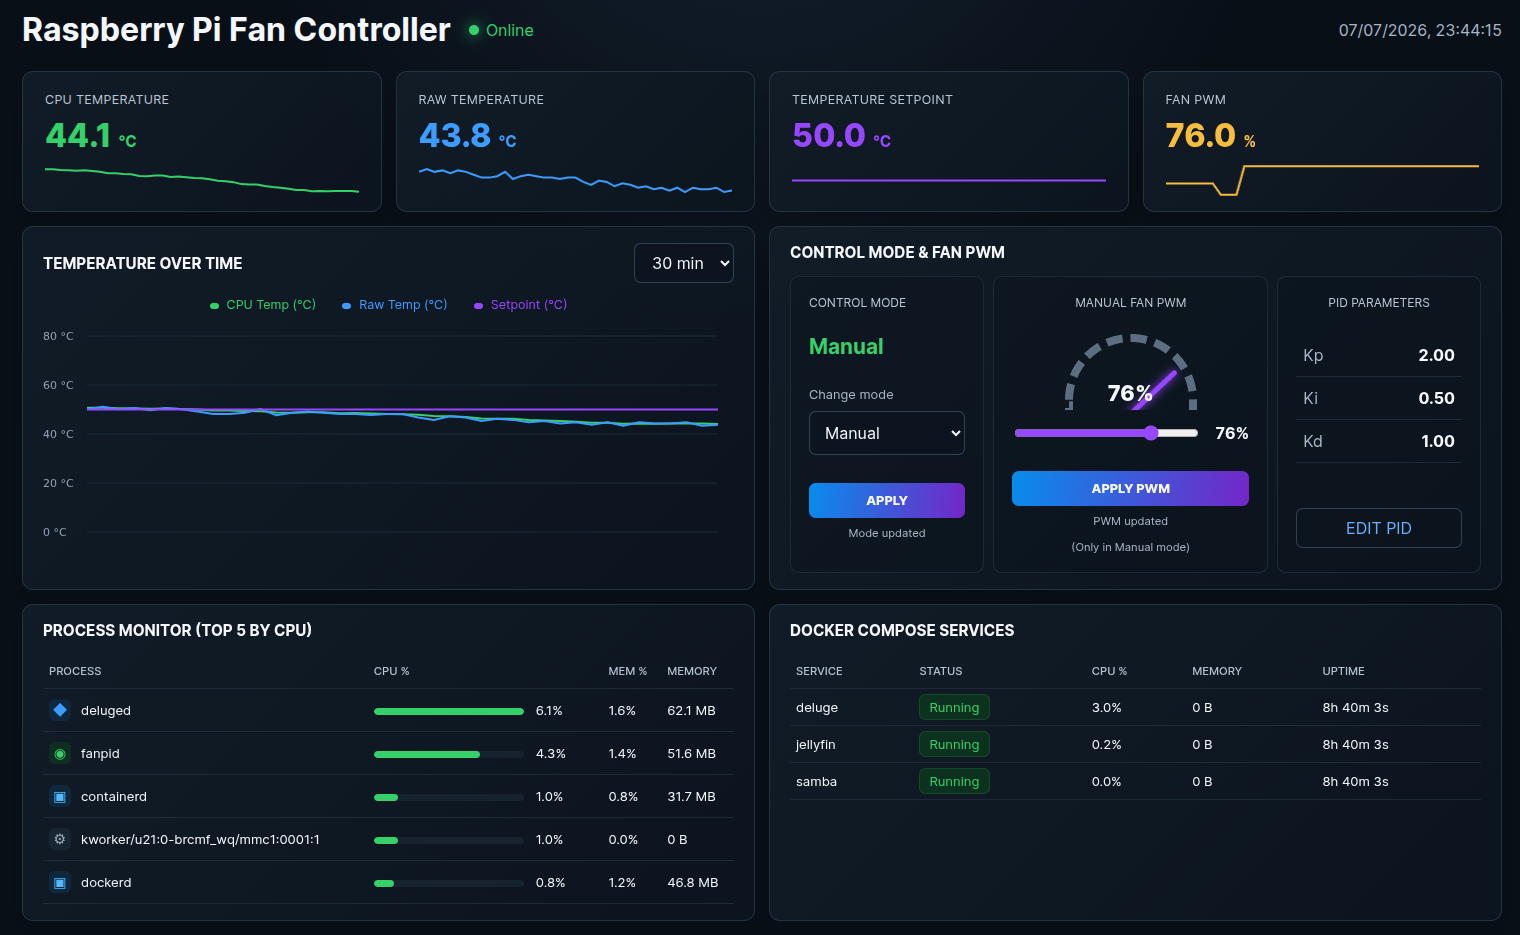
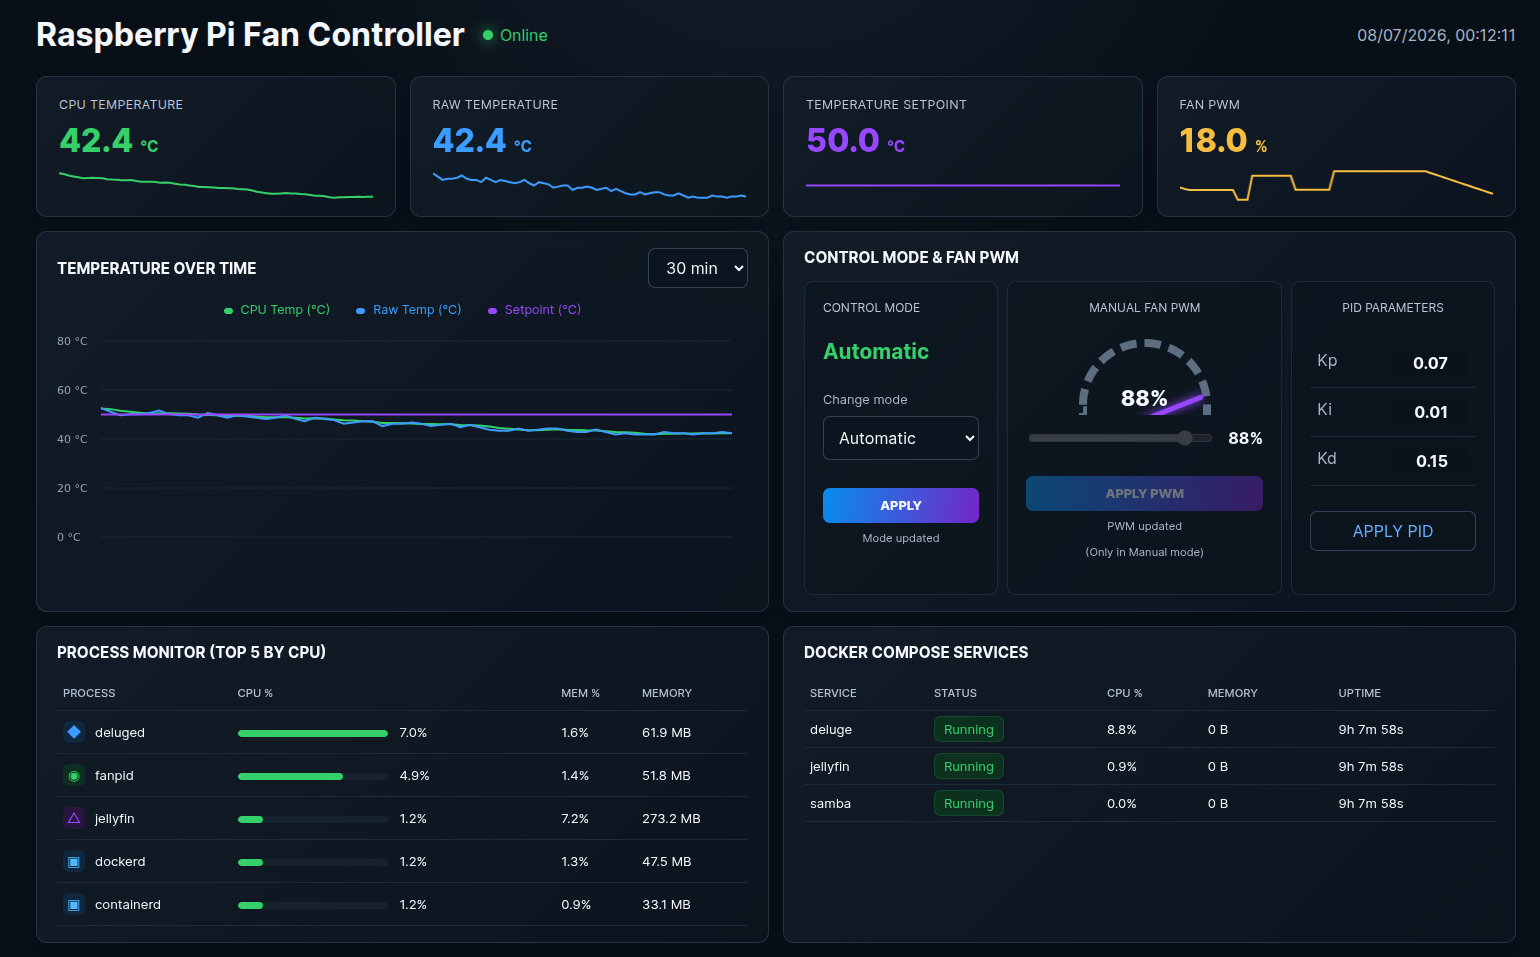
Add runtime PID parameter tuning and web API integration

diff --git a/fanpid/frontend/app.js b/fanpid/frontend/app.js
@@ -243,8 +243,60 @@ async function applyDuty() {
   catch (error) { message.textContent = "Could not set PWM"; } finally { button.disabled = document.getElementById("current-mode").textContent !== "Manual"; }
 }
 
+function renderPidParameters(parameters) {
+  document.getElementById("pid-kp").value = parameters.kp;
+  document.getElementById("pid-ki").value = parameters.ki;
+  document.getElementById("pid-kd").value = parameters.kd;
+}
+
+async function refreshPidParameters() {
+  const message = document.getElementById("pid-status");
+  try {
+    const response = await fetch("/api/pid", { cache: "no-store" });
+    if (!response.ok) throw new Error(response.status);
+    renderPidParameters(await response.json());
+  } catch (error) {
+    message.textContent = "PID parameters unavailable";
+  }
+}
+
+async function applyPidParameters() {
+  const button = document.getElementById("apply-pid");
+  const message = document.getElementById("pid-status");
+  const values = ["pid-kp", "pid-ki", "pid-kd"].map(
+    id => document.getElementById(id).value.trim(),
+  );
+  const parameters = {
+    kp: Number(values[0]),
+    ki: Number(values[1]),
+    kd: Number(values[2]),
+  };
+  if (values.some(value => value === "") || Object.values(parameters).some(value => !Number.isFinite(value) || value < 0)) {
+    message.textContent = "Enter non-negative numbers";
+    return;
+  }
+
+  button.disabled = true;
+  message.textContent = "Saving…";
+  try {
+    const response = await fetch("/api/pid", {
+      method: "PUT",
+      headers: { "Content-Type": "application/json" },
+      body: JSON.stringify(parameters),
+    });
+    if (!response.ok) throw new Error(response.status);
+    renderPidParameters(await response.json());
+    message.textContent = "PID parameters updated";
+  } catch (error) {
+    message.textContent = "Could not update PID parameters";
+  } finally {
+    button.disabled = false;
+  }
+}
+
 function updateClock() { document.getElementById("clock").textContent = new Date().toLocaleString(); }
 
 document.getElementById("apply-mode").addEventListener("click", applyMode); document.getElementById("apply-duty").addEventListener("click", applyDuty);
+document.getElementById("apply-pid").addEventListener("click", applyPidParameters);
 document.getElementById("manual-duty").addEventListener("input", event => { manualDutyDirty = true; updateDutyControl(event.target.value); });
-window.addEventListener("resize", redrawCharts); updateClock(); refresh(); refreshProcesses(); refreshComposeServices(); setInterval(updateClock, 1000); setInterval(refresh, 2000); setInterval(refreshProcesses, 5000); setInterval(refreshComposeServices, 10000);
+window.addEventListener("resize", redrawCharts); updateClock(); refresh(); refreshPidParameters(); refreshProcesses(); refreshComposeServices(); setInterval(updateClock, 1000); setInterval(refresh, 2000); setInterval(refreshProcesses, 5000); setInterval(refreshComposeServices, 10000);

diff --git a/fanpid/frontend/index.html b/fanpid/frontend/index.html
@@ -44,8 +44,11 @@
           </section>
           <section class="subpanel">
             <div class="subpanel-title" style="text-align:center">PID parameters</div>
-            <div class="pid-row"><span>Kp</span><strong>2.00</strong></div><div class="pid-row"><span>Ki</span><strong>0.50</strong></div><div class="pid-row"><span>Kd</span><strong>1.00</strong></div>
-            <button class="outline" type="button">Edit PID</button>
+            <label class="pid-row" for="pid-kp"><span>Kp</span><input id="pid-kp" class="pid-input" type="number" min="0" step="0.01"></label>
+            <label class="pid-row" for="pid-ki"><span>Ki</span><input id="pid-ki" class="pid-input" type="number" min="0" step="0.01"></label>
+            <label class="pid-row" for="pid-kd"><span>Kd</span><input id="pid-kd" class="pid-input" type="number" min="0" step="0.01"></label>
+            <button id="apply-pid" class="outline" type="button">Apply PID</button>
+            <div id="pid-status" class="message"></div>
           </section>
         </div>
       </article>

diff --git a/fanpid/frontend/styles.css b/fanpid/frontend/styles.css
@@ -59,8 +59,8 @@ input[type="range"] { width: 100%; accent-color: var(--purple); }
 .range-value { text-align: right; font-weight: 700; }
 .hint { margin-top: 9px; color: var(--muted); font-size: .7rem; text-align: center; }
 .pid-row { display: flex; justify-content: space-between; padding: 11px 7px; border-bottom: 1px solid #1d2a37; color: var(--muted); }
-.pid-row strong { color: var(--text); }
-.outline { width: 100%; margin-top: 45px; padding: 9px 12px; color: #6ab0ff; background: transparent; text-transform: uppercase; }
+.pid-input { width: 76px; border: 0; border-radius: 5px; padding: 3px 6px; color: var(--text); background: #0a121b; font-weight: 700; text-align: right; }
+.outline { width: 100%; margin-top: 25px; padding: 9px 12px; color: #6ab0ff; background: transparent; text-transform: uppercase; }
 .table-wrap { overflow-x: auto; }
 table { width: 100%; border-collapse: collapse; font-size: .82rem; }
 th, td { padding: 10px 6px; border-bottom: 1px solid #1d2a37; text-align: left; white-space: nowrap; }

diff --git a/fanpid/pid.py b/fanpid/pid.py
@@ -1,4 +1,15 @@
+from dataclasses import dataclass, replace
+from math import isfinite
+from threading import Lock
+
 from fanpid.config import PidConfig
+
+
+@dataclass(frozen=True)
+class PidParameters:
+    kp: float
+    ki: float
+    kd: float
 
 
 class PidController:
@@ -6,8 +17,40 @@ class PidController:
         self._config = config
         self._integral = 0.0
         self._last_error = 0.0
+        self._lock = Lock()
 
     def calculate(self, temperature: float, previous_duty: float) -> float:
+        with self._lock:
+            return self._calculate(temperature, previous_duty)
+
+    def get_parameters(self) -> PidParameters:
+        with self._lock:
+            return PidParameters(
+                kp=self._config.kp,
+                ki=self._config.ki,
+                kd=self._config.kd,
+            )
+
+    def update_parameters(self, parameters: PidParameters) -> PidParameters:
+        values = (parameters.kp, parameters.ki, parameters.kd)
+        if any(not isfinite(value) or value < 0.0 for value in values):
+            raise ValueError("PID parameters must be finite, non-negative numbers.")
+        with self._lock:
+            self._config = replace(
+                self._config,
+                kp=parameters.kp,
+                ki=parameters.ki,
+                kd=parameters.kd,
+            )
+            self._integral = 0.0
+            self._last_error = 0.0
+            return parameters
+
+    def get_setpoint(self) -> float:
+        with self._lock:
+            return self._config.target_temp
+
+    def _calculate(self, temperature: float, previous_duty: float) -> float:
         if temperature < self._config.fan_off_temp:
             self._integral = 0.0
             self._last_error = 0.0

diff --git a/fanpid/web.py b/fanpid/web.py
@@ -8,6 +8,7 @@ from fastapi.staticfiles import StaticFiles
 from pydantic import BaseModel
 
 from fanpid.compose import ComposeServiceInfo, ComposeServiceMonitorService
+from fanpid.pid import PidParameters
 from fanpid.process import ProcessInfo, ProcessMonitorService
 from fanpid.service import FanControlService, ManualControlUnavailableError
 from fanpid.state import ControlMode
@@ -51,6 +52,12 @@ class ComposeServiceDto(BaseModel):
     uptime_seconds: Optional[int] = None
 
 
+class PidParametersDto(BaseModel):
+    kp: float
+    ki: float
+    kd: float
+
+
 def _to_status_dto(service: FanControlService) -> FanStatusDto:
     current_status = service.get_status()
     return FanStatusDto(
@@ -84,6 +91,14 @@ def _to_compose_service_dto(service: ComposeServiceInfo) -> ComposeServiceDto:
     )
 
 
+def _to_pid_parameters_dto(parameters: PidParameters) -> PidParametersDto:
+    return PidParametersDto(
+        kp=parameters.kp,
+        ki=parameters.ki,
+        kd=parameters.kd,
+    )
+
+
 def create_app(
     fan_control_service: FanControlService,
     process_monitor_service: ProcessMonitorService,
@@ -103,6 +118,20 @@ def create_app(
     @app.get("/api/status", response_model=FanStatusDto)
     def status() -> FanStatusDto:
         return _to_status_dto(fan_control_service)
+
+    @app.get("/api/pid", response_model=PidParametersDto)
+    def pid_parameters() -> PidParametersDto:
+        return _to_pid_parameters_dto(fan_control_service.get_pid_parameters())
+
+    @app.put("/api/pid", response_model=PidParametersDto)
+    def update_pid_parameters(request: PidParametersDto) -> PidParametersDto:
+        try:
+            parameters = fan_control_service.update_pid_parameters(
+                PidParameters(kp=request.kp, ki=request.ki, kd=request.kd)
+            )
+        except ValueError as error:
+            raise HTTPException(status_code=422, detail=str(error)) from error
+        return _to_pid_parameters_dto(parameters)
 
     @app.get("/api/processes", response_model=list[ProcessDto])
     def processes() -> list[ProcessDto]:

diff --git a/fanpid/service.py b/fanpid/service.py
@@ -1,5 +1,6 @@
 from abc import ABC, abstractmethod
 
+from fanpid.pid import PidController, PidParameters
 from fanpid.state import (
     ControlMode,
     FanState,
@@ -21,10 +22,19 @@ class FanControlService(ABC):
     def set_manual_duty(self, duty: float) -> FanStatus:
         """Set the requested fan duty while manual mode is active."""
 
+    @abstractmethod
+    def get_pid_parameters(self) -> PidParameters:
+        """Return the active PID gains."""
+
+    @abstractmethod
+    def update_pid_parameters(self, parameters: PidParameters) -> PidParameters:
+        """Update the active PID gains."""
+
 
 class DefaultFanControlService(FanControlService):
-    def __init__(self, state: FanState):
+    def __init__(self, state: FanState, pid: PidController):
         self._state = state
+        self._pid = pid
 
     def get_status(self) -> FanStatus:
         return self._state.snapshot()
@@ -36,3 +46,9 @@ class DefaultFanControlService(FanControlService):
         if not 0.0 <= duty <= 1.0:
             raise ValueError("Manual fan duty must be between 0.0 and 1.0.")
         return self._state.set_manual_duty(duty)
+
+    def get_pid_parameters(self) -> PidParameters:
+        return self._pid.get_parameters()
+
+    def update_pid_parameters(self, parameters: PidParameters) -> PidParameters:
+        return self._pid.update_parameters(parameters)

diff --git a/fanpid/controller.py b/fanpid/controller.py
@@ -16,12 +16,13 @@ class FanController:
         fan: Fan,
         temperature_reader: CpuTemperatureReader,
         state: FanState,
+        pid: PidController,
     ):
         self._config = config
         self._fan = fan
         self._temperature_reader = temperature_reader
         self._state = state
-        self._pid = PidController(config.pid)
+        self._pid = pid
         self._temperatures: deque[float] = deque(
             maxlen=config.temperature.average_samples
         )
@@ -58,7 +59,7 @@ class FanController:
             self._state.update(
                 raw_temperature,
                 temperature,
-                self._config.pid.target_temp,
+                self._pid.get_setpoint(),
                 duty,
             )
             self._log_status(temperature, raw_temperature, duty)

diff --git a/fanpid/daemon.py b/fanpid/daemon.py
@@ -7,6 +7,7 @@ from fanpid.compose import DockerCliComposeServiceMonitorService
 from fanpid.controller import FanController
 from fanpid.fan import Fan
 from fanpid.process import PsutilProcessMonitorService
+from fanpid.pid import PidController
 from fanpid.service import DefaultFanControlService
 from fanpid.state import FanState
 from fanpid.temperature import FileCpuTemperatureReader
@@ -20,7 +21,8 @@ def main() -> None:
     config = load_config(arguments.config)
     fan = Fan(config.fan)
     state = FanState()
-    service = DefaultFanControlService(state)
+    pid = PidController(config.pid)
+    service = DefaultFanControlService(state, pid)
     process_monitor_service = PsutilProcessMonitorService()
     compose_service_monitor = DockerCliComposeServiceMonitorService()
     controller = FanController(
@@ -28,6 +30,7 @@ def main() -> None:
         fan,
         FileCpuTemperatureReader(config.temperature.file),
         state,
+        pid,
     )
 
     if config.web.enabled:

diff --git a/README.md b/README.md
@@ -92,9 +92,10 @@ processes, and Docker Compose service statistics. The fan can be switched
 between automatic PID control and manual `0%`–`100%` PWM control. Entering
 manual mode always starts at `0%`.
 
-The PID panel is currently display-only; values remain configured in
-`config/fanpid.toml`. The Docker panel requires local Docker CLI access and
-stays empty when Docker is unavailable.
+Kp, Ki, and Kd can be tuned at runtime from the PID panel. These changes last
+until the daemon restarts; startup values come from `config/fanpid.toml`. The
+Docker panel requires local Docker CLI access and stays empty when Docker is
+unavailable.
 
 The dashboard currently has no authentication and includes fan-control
 operations. Keep it on a trusted local network and do not expose it directly to
@@ -187,7 +188,7 @@ systemd/fanpid.service
 ## Roadmap
 
 - Safe shutdown and failsafe operation
-- Web-based PID configuration
+- Persistent web-based PID configuration
 - Persistent historical metrics
 
 ## License